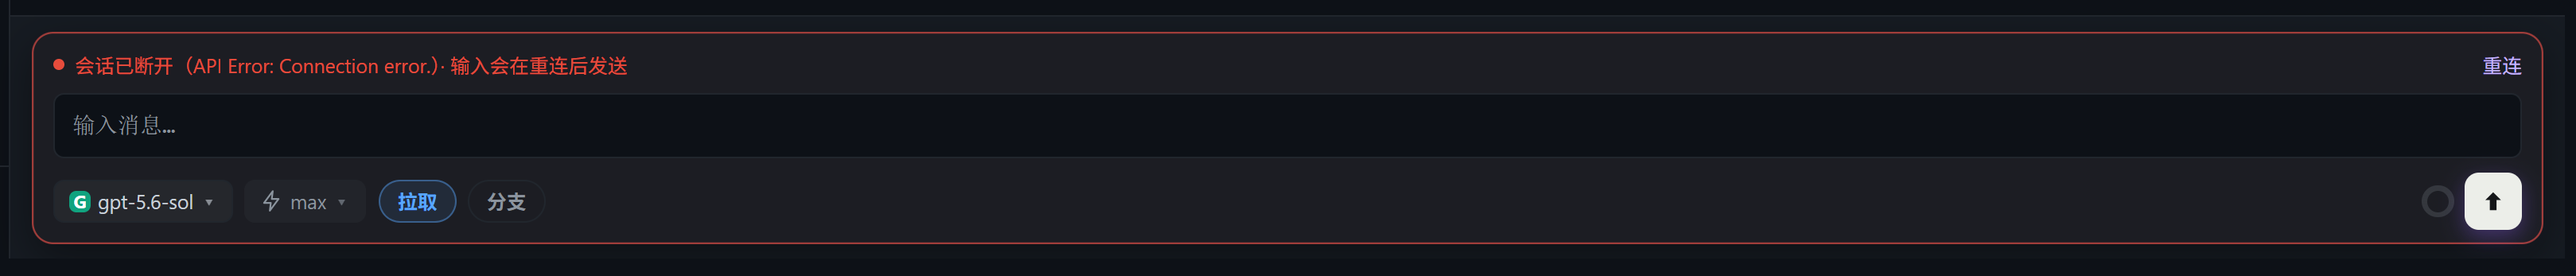
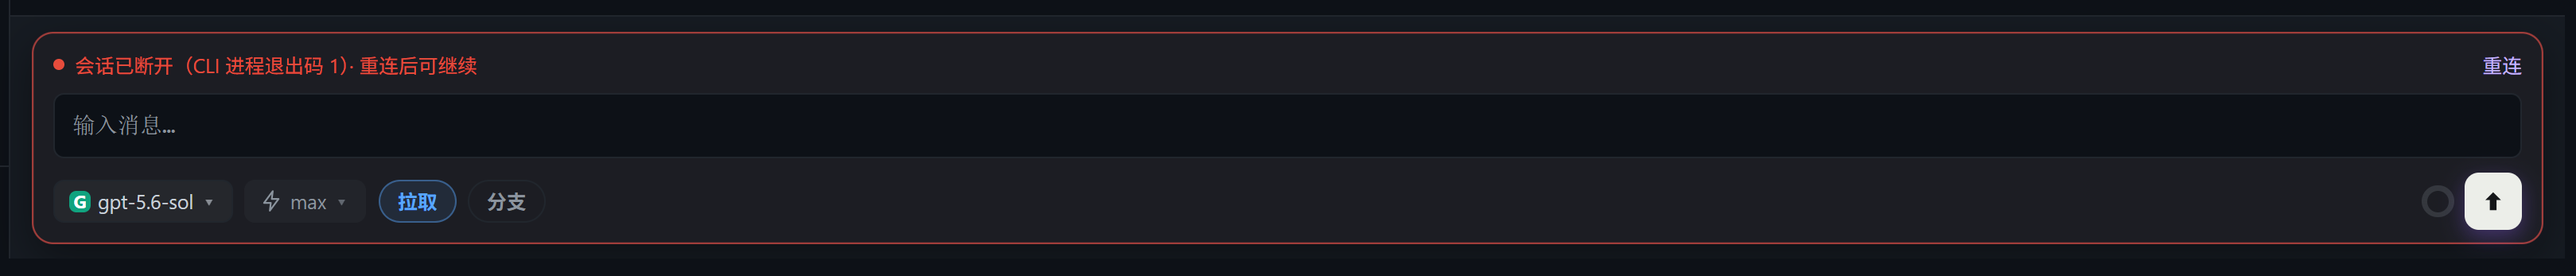
fix(session): CLI 进程自己死掉时留下会话与断开卡片，而不是连输入框一起抹掉
关掉 B3。评审连续三轮复现的现象是：真结束 PTY 后会话和输入框一起消失，界面凭空
回到空状态，既看不到"它断了"，也没有任何重连入口。

根因是渲染层分辨不出四件事：用户删除、重启、工作区迁移、CLI 自己崩掉 —— 它们发到
渲染层是同一个 session-closed、同样的载荷。所以：

- core/session-manager.js：Hub 主动关会话时记一个 closeRequestedAt，PTY 退出时把
  requested 一起交给回调。CLI 自己死掉时这个标记不存在，两者从此可分辨。（+8 行）
- main.js：把 exitInfo 与 requested 转发给渲染层；工作区迁移也算 requested。（+8 行）
- renderer.js：非 requested 的退出且是可恢复的 CLI → 不删记录，落成可唤醒并单独记
  一笔 _processLost（进程怎么没的），面板与输入框保持挂载，草稿与最后一屏都留着。

为什么落成"可唤醒"而不是"异常"：重启那条接口要求主进程那边还留着会话记录，而 PTY
退出时它已经被删了，标成异常只会得到一个按了没反应的重连按钮。只有休眠唤醒那条路
只依赖渲染层自己保存的元数据，能真的把会话拉回来。唤醒成功后 _processLost 会被销掉。

顺带修掉我自己上一轮埋的雷：重连失败时弹 alert 会把渲染进程整个冻住（连后续重试都
点不了），改成把失败原因写回状态行。断开文案同时改成"重连后可继续"—— Hub 没有
"排队到重连后自动发送"这个机制，原文案是句做不到的承诺。

不可恢复的 CLI（宿主 shell）没有可唤醒的东西，仍走原来的删除路径。

Changed region(s): [[0.0624, 0.2017, 0.2495, 0.2882]]

diff --git a/tests/e2e-composer-states-cdp.js b/tests/e2e-composer-states-cdp.js
@@ -129,10 +129,11 @@ async function descendantPids(rootPid) {
   const queue = [Number(rootPid)];
   const seen = new Set(queue);
   while (queue.length) {
-    for (const child of byParent.get(queue.shift()) || []) {
+    const current = queue.shift();
+    for (const child of byParent.get(current) || []) {
       if (seen.has(child.pid)) continue;
       seen.add(child.pid);
-      out.push(child);
+      out.push({ ...child, parent: current });
       queue.push(child.pid);
     }
   }
@@ -365,7 +366,7 @@ async function descendantPids(rootPid) {
           const item = menu.querySelector('.model-picker-item[data-effort="' + target + '"]');
           if (!item) { document.body.click(); return { before, beforeLabel, offered, target, error: 'target effort not offered' }; }
           item.click();
-          for (let i = 0; i < 200; i += 1) {
+          for (let i = 0; i < 100; i += 1) {
             await new Promise(r => setTimeout(r, 250));
             const now = String(sessions.get(sid).effort || '');
             if (now && now !== before) {
@@ -375,7 +376,7 @@ async function descendantPids(rootPid) {
             }
           }
           document.body.click();
-          return { before, beforeLabel, offered, target, error: 'effort switch not confirmed in 50s' };
+          return { before, beforeLabel, offered, target, error: 'effort switch not confirmed in 25s' };
         })()`);
       }
 
@@ -408,7 +409,7 @@ async function descendantPids(rootPid) {
         const item = document.querySelector('.model-picker-menu .model-picker-item[data-model-id="' + target + '"]');
         if (!item) return { before, target, error: 'target model not listed' };
         item.click();
-        for (let i = 0; i < 160; i += 1) {
+        for (let i = 0; i < 100; i += 1) {
           await new Promise(r => setTimeout(r, 250));
           const now = (sessions.get(sid).currentModel || {}).id || null;
           if (now && now !== before) {
@@ -418,7 +419,7 @@ async function descendantPids(rootPid) {
           }
         }
         document.body.click();
-        return { before, target, error: 'model switch not confirmed in 40s' };
+        return { before, target, error: 'model switch not confirmed in 25s' };
       })()`);
       assert.ok(report.real.modelSwitch.after, `模型切换没成功：${JSON.stringify(report.real.modelSwitch)}`);
 
@@ -447,7 +448,7 @@ async function descendantPids(rootPid) {
           })()`);
           if (state === 'dead') {
             const probe = await composerProbe(client);
-            const shot = await shootComposer(client, 'T1-composer-dead.png');
+            const shot = await shootComposer(client, 'T1-composer-dead-streamloss.png');
             return { probe, shot };
           }
           await _waitMs(120);
@@ -466,12 +467,92 @@ async function descendantPids(rootPid) {
         if (caught) break;
         await waitTurnDone(sid);
       }
-      report.real.dead = caught ? caught.probe : { caught: false };
-      if (caught) report.screenshots.dead = caught.shot;
+      report.real.streamLossDead = caught ? caught.probe : { caught: false };
+      if (caught) report.screenshots.deadStreamLoss = caught.shot;
       saveReport(report);
       assert.ok(caught, '断流没能把 composer 推进断开态（已试两次）');
+      assert.equal(report.real.streamLossDead.state, 'dead');
+      assert.equal(report.real.streamLossDead.action, '重连');
+
+      // ── 断开（任务卡里写的那一条）：真结束这个会话的 PTY 进程 ──
+      // 只在本 Hub 的进程子树里定位，绝不按名字全盘杀。
+      await waitTurnDone(sid);
+      // Hub 是用一个 shell 开 PTY、再在里面跑 codex 的。只杀 codex.exe 的话
+      // 宿主 shell 会回到提示符、PTY 不会退出 —— 那就没复现到要测的事。
+      // 所以从 codex.exe 往上找到它的 shell 宿主，连树结束。
+      const codexDescendants = await descendantPids(hub.pid);
+      const byPid = new Map(codexDescendants.map(p => [p.pid, p]));
+      const codexProc = codexDescendants.filter(p => /^codex(\.exe)?$/i.test(p.name));
+      let killTarget = null;
+      if (codexProc.length === 1) {
+        let walk = byPid.get(codexProc[0].parent);
+        while (walk && !/^(powershell|pwsh)\.exe$/i.test(walk.name)) walk = byPid.get(walk.parent);
+        killTarget = walk ? walk.pid : codexProc[0].pid;
+      }
+      report.real.codexPtyKill = {
+        hubPid: hub.pid,
+        codexPids: codexProc.map(p => p.pid),
+        killTarget,
+        names: [...new Set(codexDescendants.map(p => p.name))],
+      };
+      assert.ok(killTarget, `定位不到这个会话的 PTY 宿主，放弃以免误杀：${JSON.stringify(report.real.codexPtyKill)}`);
+      await execFileAsync('taskkill.exe', ['/PID', String(killTarget), '/T', '/F'], { windowsHide: true });
+      await _waitMs(5000);
+      report.real.dead = await composerProbe(client);
+      report.real.codexPtyKill.afterKill = await client.eval(`(() => {
+        const s = sessions.get(${JSON.stringify(sid)});
+        return {
+          sessionStillKnown: !!s,
+          status: s ? s.status : null,
+          processLost: s ? s._processLost : null,
+          activeSessionId,
+        };
+      })()`);
+      report.screenshots.dead = await shootComposer(client, 'T1-composer-dead.png');
+      saveReport(report);
+      assert.equal(report.real.codexPtyKill.afterKill.sessionStillKnown, true,
+        '进程崩了不应该把会话记录一起抹掉');
+      assert.equal(report.real.dead.present, true, 'PTY 退出后输入框必须还在');
       assert.equal(report.real.dead.state, 'dead');
       assert.equal(report.real.dead.action, '重连');
+      assert.match(report.real.dead.text, /CLI 进程/, '断开原因要说清是进程没了，不能笼统地说休眠');
+
+      // 重连必须真的能把会话拉回来，不能是个按了没反应的按钮。
+      // CDP 单次求值上限 30s，恢复一个 Codex 会话比这久，所以在测试进程侧轮询，
+      // 不把等待塞进页面里的一次 eval。
+      await client.eval(`(() => {
+        const action = document.querySelector('.composer-status-action');
+        if (!action || action.hidden) return false;
+        action.click();
+        return true;
+      })()`);
+      report.real.reconnect = { clicked: true };
+      const reconnectDeadline = Date.now() + 150000;
+      while (Date.now() < reconnectDeadline) {
+        await _waitMs(1000);
+        const revived = await client.eval(`(() => {
+          const live = [...sessions.values()].find(s => String(s.kind || '').indexOf('codex') === 0
+            && s.status !== 'dormant' && terminalCache.get(s.id));
+          if (!live) {
+            const dead = sessions.get(${JSON.stringify(sid)});
+            window.__reconnectDiag = dead
+              ? { status: dead.status, resumePending: dead._resumePending, processLost: dead._processLost }
+              : { missing: true };
+            return null;
+          }
+          return { ok: true, revivedSessionId: live.id, status: live.status,
+            processLostCleared: !live._processLost, activeSessionId };
+        })()`);
+        if (revived) { report.real.reconnect = revived; break; }
+      }
+      saveReport(report);
+      if (!report.real.reconnect.ok) {
+        report.real.reconnectDiag = await client.eval('window.__reconnectDiag || null');
+        saveReport(report);
+      }
+      assert.ok(report.real.reconnect.ok, `重连没能把会话拉回来：${JSON.stringify(report.real.reconnect)} diag=${JSON.stringify(report.real.reconnectDiag)}`);
+      assert.equal(report.real.reconnect.processLostCleared, true,
+        '唤醒成功后“进程丢了”这笔必须销掉');
     }
 
     saveReport(report);

diff --git a/renderer/renderer.js b/renderer/renderer.js
@@ -4,7 +4,12 @@ const { ipcRenderer, clipboard, nativeImage, shell, webFrame, webUtils } = requi
 const fs = require('fs');
 const path = require('path');
 const { isClaudeFamily, isAiKind, isPasteSensitive, isCodexSessionKind: isCodexKind, isKimiCliKind } = require('../core/ai-kinds.js');
-const { buildSessionResumeMeta, sessionModelId, supportsForkSession } = require('../core/session-capabilities.js');
+const {
+  buildSessionResumeMeta,
+  sessionModelId,
+  supportsForkSession,
+  supportsRecoverableSession,
+} = require('../core/session-capabilities.js');
 const {
   buildComposerRailModel,
   buildComposerStatusModel,
@@ -3438,16 +3443,29 @@ function scrollToLatestTurn(terminal) {
 async function reconnectSession(sessionId) {
   const session = sessions.get(sessionId);
   if (!session) return;
+  // 绝不弹 alert：模态弹窗会把渲染进程整个冻住，连后续的重试都点不了。
+  // 失败信息直接写回状态行，用户就地能看到、也能再点一次。
+  const failed = (message) => {
+    const base = (session._processLost && session._processLost.reason) || 'CLI 进程已退出';
+    session._processLost = { reason: `${base}；重连失败：${message}`, at: Date.now() };
+    if (typeof updateFloatingBarState === 'function') updateFloatingBarState();
+    scheduleSessionListRender();
+  };
   try {
     if (session.status === 'dormant') {
       const resumed = await resumeDormantSession(sessionId, { forceScrollBottom: true });
-      if (!resumed) alert('会话唤醒失败，请稍后重试。');
+      if (!resumed) { failed('会话唤醒没有返回结果'); return; }
+      // 唤醒成功：把“进程丢了”这笔销掉，否则它会随着会话对象一直带着，
+      // 下一次真休眠时输入框会拿一条陈年的退出码当原因念出来。
+      const revived = sessions.get(sessionId);
+      if (revived) delete revived._processLost;
+      if (typeof updateFloatingBarState === 'function') updateFloatingBarState();
       return;
     }
     const result = await ipcRenderer.invoke('restart-session', sessionId);
-    if (result && result.ok === false) alert(result.message || '会话重启失败，请稍后重试。');
+    if (result && result.ok === false) failed(result.message || '会话重启失败');
   } catch (error) {
-    alert(`会话恢复失败：${error && error.message ? error.message : String(error)}`);
+    failed(error && error.message ? error.message : String(error));
   }
 }
 
@@ -7179,9 +7197,65 @@ ipcRenderer.on('session-suspended', (_e, { sessionId, session }) => {
   window.dispatchEvent(new CustomEvent('hub-session-suspended', { detail: { sessionId, session: local } }));
 });
 
-ipcRenderer.on('session-closed', (_e, { sessionId }) => {
-  dropPreviewContext(`session:${sessionId}`);
+// CLI 进程自己死了（不是用户删 / 重启 / 工作区迁移）。
+//
+// 2026-09-07 评审实测：结束 PTY 后会话和输入框一起消失，界面凭空回到空状态，
+// 用户既看不到“它断了”，也没有任何重连入口。这里不删记录，而是把它落成
+// “可唤醒”：
+//   - 为什么是 dormant 而不是 error：重启那条接口要求主进程那边还留着会话记录，
+//     而 PTY 退出时它已经被删了——只有休眠唤醒那条路只依赖渲染层自己保存的元数据，
+//     能真的把会话拉回来。标成 error 会得到一个按了没反应的“重连”按钮。
+//   - _processLost 单独记一笔“进程是怎么没的”，好让输入框说“CLI 进程退出码 1”
+//     而不是笼统的“会话已休眠”。
+// 不可恢复的 CLI（如宙主 shell）没有可唤醒的东西，仍走原来的删除路径。
+function describePtyExit(exitInfo) {
+  const signal = exitInfo && exitInfo.signal ? String(exitInfo.signal).trim() : '';
+  if (signal) return `CLI 进程被信号 ${signal} 结束`;
+  const code = Number(exitInfo && exitInfo.exitCode);
+  if (Number.isFinite(code)) return `CLI 进程退出码 ${code}`;
+  return 'CLI 进程已退出';
+}
+
+function markSessionProcessLost(sessionId, exitInfo) {
+  const session = sessions.get(sessionId);
+  if (!session) return false;
+  const reason = describePtyExit(exitInfo);
+  const now = Date.now();
+  session.status = 'dormant';
+  session._processLost = { reason, at: now };
+  session.lastError = reason;
+  session._agentWorking = null;
+  session._runSource = null;
+  session.runStartedAt = null;
+  session.cardWorkingSince = null;
+  session.gcWorking = false;
+  session._resumePending = false;
+  clearSessionAttention(session);
+  observeSessionRuntime(session, {
+    state: RUNTIME_DORMANT,
+    source: 'pty-exit-unrequested',
+    confidence: CONFIDENCE_AUTHORITATIVE,
+    observedAt: now,
+    evidence: reason,
+  }, { mirrorLegacy: false });
+  clearRuntimeTruthExpiryTimer(sessionId);
+  clearTerminalActivitySession(sessionId);
+  // 草稿存着（重连后还在输入框里），终端缓存也存着（最后一屏就是现场）。
+  if (activeSessionId === sessionId && typeof updateFloatingBarState === 'function') {
+    updateFloatingBarState();
+  }
+  scheduleSessionListRender();
+  schedulePersist();
+  return true;
+}
+
+ipcRenderer.on('session-closed', (_e, { sessionId, exitInfo, requested }) => {
   const closing = sessions.get(sessionId);
+  if (!requested && closing && closing.status !== 'dormant' && supportsRecoverableSession(closing)) {
+    markSessionProcessLost(sessionId, exitInfo);
+    return;
+  }
+  dropPreviewContext(`session:${sessionId}`);
   const wasChuxinResearch = !!(closing && closing.purpose === 'chuxin-research');
   if (window._cardLoadSeqBySid) window._cardLoadSeqBySid.delete(sessionId);
   clearCardLiveRefreshState(sessionId);

diff --git a/tests/unit-composer-status-model.test.js b/tests/unit-composer-status-model.test.js
@@ -138,12 +138,29 @@ test('等你回答：waiting=false 的检测结果不算数', () => {
 test('断开：休眠与运行异常都归到同一档，并给出重连动作', () => {
   const dormant = model({ kind: 'claude', status: 'dormant' });
   assert.equal(dormant.state, COMPOSER_STATUS_DEAD);
-  assert.equal(dormant.text, '会话已断开（会话已休眠）· 输入会在重连后发送');
+  assert.equal(dormant.text, '会话已断开（会话已休眠）· 重连后可继续');
   assert.deepEqual(dormant.action, { kind: 'reconnect', label: '重连' });
 
   const failed = model({ kind: 'gemini', status: 'error', lastError: 'PTY 退出码 1' });
   assert.equal(failed.state, COMPOSER_STATUS_DEAD);
-  assert.equal(failed.text, '会话已断开（PTY 退出码 1）· 输入会在重连后发送');
+  assert.equal(failed.text, '会话已断开（PTY 退出码 1）· 重连后可继续');
+});
+
+// 2026-09-07 评审实测：真结束 PTY 后会话和输入框一起消失。现在会话会被留下来
+// 并落成可唤醒，进程怎么没的单独记一笔 —— 不能被笼统的“会话已休眠”盖掉。
+test('断开：进程自己死了要报出退出码，不能冒充休眠', () => {
+  const lost = model({
+    kind: 'codex',
+    status: 'dormant',
+    _processLost: { reason: 'CLI 进程退出码 1', at: NOW },
+  });
+  assert.equal(lost.state, COMPOSER_STATUS_DEAD);
+  assert.equal(lost.text, '会话已断开（CLI 进程退出码 1）· 重连后可继续');
+  assert.deepEqual(lost.action, { kind: 'reconnect', label: '重连' });
+
+  // 没有进程丢失标记时仍然是普通休眠的说法
+  const dormant = model({ kind: 'codex', status: 'dormant' });
+  assert.equal(dormant.text, '会话已断开（会话已休眠）· 重连后可继续');
 });
 
 test('断开：断流也算断开，原因用 connectionIssue 的说法', () => {

diff --git a/core/session-manager.js b/core/session-manager.js
@@ -1918,7 +1918,7 @@ class SessionManager extends EventEmitter {
     if (wasSuspended) {
       this.onSessionSuspended(sessionId, meetingId, dormantInfo, exitInfo || null);
     } else {
-      this.onSessionClosed(sessionId, meetingId, exitInfo || null);
+      this.onSessionClosed(sessionId, meetingId, { ...(exitInfo || {}), requested: !!entry.closeRequestedAt });
     }
     return true;
   }
@@ -1928,11 +1928,15 @@ class SessionManager extends EventEmitter {
     if (!session) return;
     // An explicit close wins over an in-flight suspend request.
     session.suspendRequestedAt = 0;
+    // 删除 / 重启 / 工作区迁移都走这里，CLI 自己崩掉不会。没这个标记时，
+    // 渲染层收到的“会话关闭了”在这四种情况下一模一样，只能把崩掉的会话
+    // 当成用户主动删的一起抹掉——用户看到的就是界面凭空回到空状态。
+    session.closeRequestedAt = Date.now();
     for (const t of session.pendingTimers) clearTimeout(t);
     if (!session.pty) {
       if (session.terminalSnapshot) session.terminalSnapshot.dispose();
       this.sessions.delete(sessionId);
-      this.onSessionClosed(sessionId, null, { noPty: true });
+      this.onSessionClosed(sessionId, null, { noPty: true, requested: true });
       return;
     }
     session.pty.kill();

diff --git a/core/session-status-summary.js b/core/session-status-summary.js
@@ -295,8 +295,12 @@ function buildComposerStatusModel(session, options = {}) {
 
   if (state === COMPOSER_STATUS_DEAD) {
     const issue = session && session.connectionIssue;
+    const lost = session && session._processLost;
     const reason = String(
-      (disconnected && issue && (issue.reason || issue.detail))
+      // CLI 进程真的没了是最具体的一条事实，优先念它；否则会被
+      // 笼统的“会话已休眠”盖掉，用户分不清是自己收的还是崩的。
+      (lost && lost.reason)
+      || (disconnected && issue && (issue.reason || issue.detail))
       // 休眠不是故障，它的 detail 是一句操作提示（「点击会话可恢复原生 CLI」），
       // 拿来当断开原因念出来是答非所问。
       || (runtime.state === RUNTIME_DORMANT ? '会话已休眠' : '')
@@ -307,8 +311,8 @@ function buildComposerStatusModel(session, options = {}) {
     return {
       state,
       text: reason
-        ? `会话已断开（${reason}）· 输入会在重连后发送`
-        : '会话已断开 · 输入会在重连后发送',
+        ? `会话已断开（${reason}）· 重连后可继续`
+        : '会话已断开 · 重连后可继续',
       detail: '',
       quickReplies: [],
       action: { kind: 'reconnect', label: '重连' },

diff --git a/main.js b/main.js
@@ -1175,7 +1175,13 @@ sessionManager.onSessionClosed = (sessionId, meetingId, exitInfo) => {
   try { transcriptTap.unregisterSession(sessionId); } catch {}
   // 群聊 cli-ready monotonic guard 清理（独立模块，详见 core/group-chat-cli-ready-detector.js）
   try { cliReadyDetector.cleanup(sessionId); } catch {}
-  sendToRenderer('session-closed', { sessionId });
+  // 渲染层要靠 requested 分辨“用户删/重启/迁移”和“CLI 自己崩了”；
+  // 后者不该把会话连同输入框一起抹掉，而要留一张断开卡片 + 重连入口。
+  sendToRenderer('session-closed', {
+    sessionId,
+    exitInfo: exitInfo || null,
+    requested: isWorkspaceMigration || !!(exitInfo && exitInfo.requested),
+  });
   if (meetingId && !isWorkspaceMigration) {
     const updated = meetingManager.removeSubSession(meetingId, sessionId);
     if (updated) sendToRenderer('meeting-updated', { meeting: updated });
